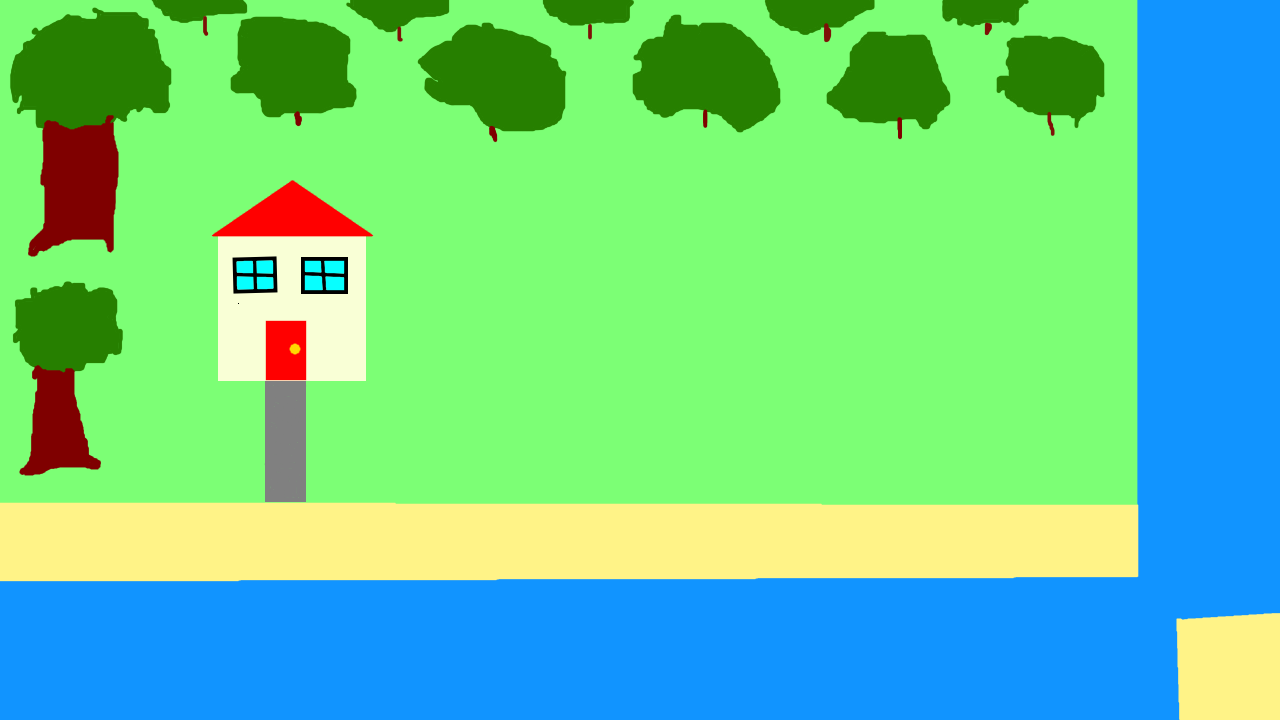
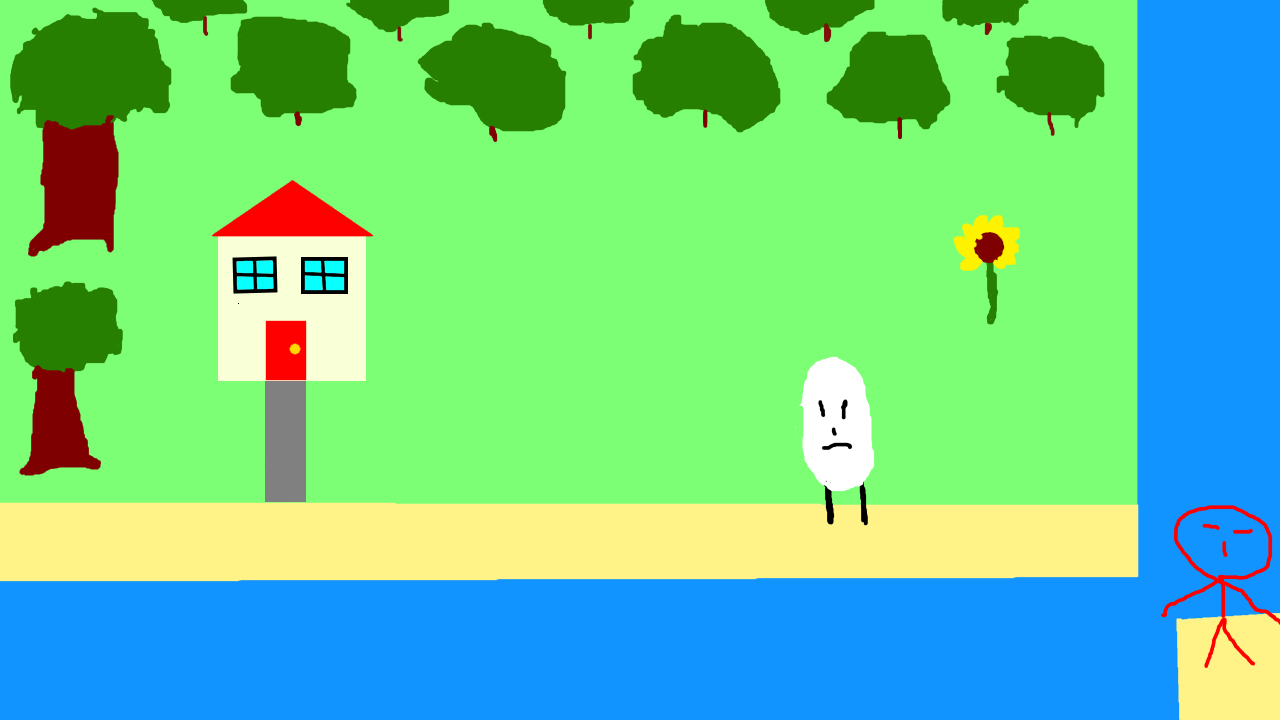
This is the turned in version of the project.

diff --git a/Data Structures Final Gaming/src/Main/Main.java b/Data Structures Final Gaming/src/Main/Main.java
@@ -24,7 +24,7 @@ public class Main{
 	public static Queue<Vector2D> vecs2 = new LinkedList<>();
 	public static Vector2D currentVec = new Vector2D(500, 250);
 	public static ArrayList<spriteInfo> sprites=new ArrayList<>();
-	public static ArrayList<spriteInfo> spritesBorder=new ArrayList<>();
+	//public static ArrayList<spriteInfo> spritesBorder=new ArrayList<>();
 	public static int currentSpriteIndex=0;
 	public static spriteInfo s1 = new spriteInfo(currentVec, "testright0");
 	public static EZFileRead ezr=new EZFileRead("TextLines.txt");
@@ -39,7 +39,6 @@ public class Main{
 	public static int k=currentVec.getY();
 	public static boolean movement=false;
 	public static BoundingBox box1=new BoundingBox(currentVec.getX(),currentVec.getY(),28,28);
-	public static BoundingBox box2=new BoundingBox(175,450,1,35);
 	public static ArrayList<BoundingBox> borders=new ArrayList<>();
 	//public static String key=st.nextToken();
 	//public static String Value=st.nextToken();
@@ -64,16 +63,24 @@ public class Main{
 			phrases[j]=entry.getKey();
 			j++;
 		}
-			spritesBorder.add(new spriteInfo(new Vector2D(0, 0), "Treel"));
+			/*spritesBorder.add(new spriteInfo(new Vector2D(0, 0), "Treel"));
 			spritesBorder.add(new spriteInfo(new Vector2D(1200,0), "Treer"));
 			spritesBorder.add(new spriteInfo(new Vector2D(80,0), "Treeu"));
-			spritesBorder.add(new spriteInfo(new Vector2D(80,640), "Treed"));
-			for(int i=0;i<spritesBorder.size()/2;i++){
+			spritesBorder.add(new spriteInfo(new Vector2D(80,640), "Treed"));*/
+			borders.add(new BoundingBox(0,575,1280,145));
+			borders.add(new BoundingBox(0,0,84,450));
+			borders.add(new BoundingBox(0,0,1280,110));
+			borders.add(new BoundingBox(825,350,20,175));
+			borders.add(new BoundingBox(1000,210,1,80));
+			borders.add(new BoundingBox(1180,0,140,720));
+			borders.add(new BoundingBox(0,500,35,80));
+			borders.add(new BoundingBox(250,180,80,120));
+		/*	for(int i=0;i<spritesBorder.size()/2;i++){
 				borders.add(new BoundingBox(spritesBorder.get(i).getCoords().getX(),spritesBorder.get(i).getCoords().getY(),50,720));
 			}
 			for(int i=2;i<spritesBorder.size();i++){
 				borders.add(new BoundingBox(spritesBorder.get(i).getCoords().getX(),spritesBorder.get(i).getCoords().getY(),1280,50));
-			}
+			}*/
 			
 		sprites.add(s1);
 		//int i=currentVec.getX();
@@ -99,33 +106,22 @@ public class Main{
 		// TODO: This is where you can code! (Starting code below is just to show you how it works)
 		//ctrl.addSpriteToFrontBuffer(currentVec.getX(), currentVec.getY(), "f1");
 		ctrl.addSpriteToFrontBuffer(0, 0, "testbackground");
-		ctrl.addSpriteToFrontBuffer(100, 400, "object1");
-		ctrl.addSpriteToFrontBuffer(spritesBorder.get(0).getCoords().getX(), spritesBorder.get(0).getCoords().getY(), spritesBorder.get(0).getTag());
-		ctrl.addSpriteToFrontBuffer(spritesBorder.get(1).getCoords().getX(), spritesBorder.get(1).getCoords().getY(), spritesBorder.get(1).getTag());
-		ctrl.addSpriteToFrontBuffer(spritesBorder.get(2).getCoords().getX(), spritesBorder.get(2).getCoords().getY(), spritesBorder.get(2).getTag());
-		ctrl.addSpriteToFrontBuffer(spritesBorder.get(3).getCoords().getX(), spritesBorder.get(3).getCoords().getY(), spritesBorder.get(3).getTag());
+		ctrl.addSpriteToFrontBuffer(-10, 475, "BeachBall");
 		ctrl.addSpriteToFrontBuffer(sprites.get(currentSpriteIndex).getCoords().getX(), sprites.get(currentSpriteIndex).getCoords().getY(), sprites.get(currentSpriteIndex).getTag());
-		ctrl.drawString(100, 100, Integer.toString(currentSpriteIndex), custom);
+		//ctrl.drawString(100, 100, Integer.toString(currentSpriteIndex), custom);
 		if(map.containsKey(raw)){
-			ctrl.drawString(450,200 , map.get(raw), custom);
+			ctrl.addSpriteToFrontBuffer(0, 580, "HUDbackground");
+			ctrl.drawString(150,650 , map.get(raw), Color.BLACK);
 		}
-		ctrl.drawString(600, 20, box1.directionOfCollision(box1, borders.get(0)), custom);
-		ctrl.drawString(600, 40, Boolean.toString(movement), custom);
-		ctrl.drawString(700,20, Integer.toString(box1.getx1()),custom);
-		ctrl.drawString(700,40, Integer.toString(box1.getx2()),custom);
-		ctrl.drawString(800,20, Integer.toString(borders.get(0).getx1()),custom);
-		ctrl.drawString(800, 40, Integer.toString(borders.get(0).getx2()), custom);
-		ctrl.drawString(800,20, Integer.toString(borders.get(0).gety1()),custom);
-		ctrl.drawString(800,20, Integer.toString(borders.get(0).gety2()),custom);
 		//ctrl.drawString(200, 200, map.get("string3"), custom);
 		// Test drawing text on screen where you want (Remove later! Test only!)
 		if(timer.isTimeUp()){
 		box1=new BoundingBox(sprites.get(currentSpriteIndex).getCoords().getX(),sprites.get(currentSpriteIndex).getCoords().getY(),128,128);
-		if(box1.isCollision(box1, box2)==true){
+		/*if(box1.isCollision(box1, box2)==true){
 			if(trigger.equalsIgnoreCase(box1.directionOfCollision(box1, box2))){
 				movement=false;
 			}
-		}
+		}*/
 		for(int i=0;i<borders.size();i++){
 		if(box1.isCollision(box1, borders.get(i))==true){
 			if(trigger.equalsIgnoreCase(box1.directionOfCollision(box1, borders.get(i)))){

diff --git a/Data Structures Final Gaming/src/Main/KeyProcessor.java b/Data Structures Final Gaming/src/Main/KeyProcessor.java
@@ -49,8 +49,17 @@ public class KeyProcessor{
 			Main.trigger="u is triggered";
 			break;
 		case '$':
-			if(Main.box1.isCollision(Main.box1, Main.box2)==true){
+			if(Main.box1.isCollision(Main.box1, Main.borders.get(7))==true && Main.box1.directionOfCollision(Main.box1, Main.borders.get(7))=="up"){
 				Main.raw="string3";
+			}
+			if(Main.box1.isCollision(Main.box1, Main.borders.get(3))==true){
+				Main.raw="string1";
+			}
+			if(Main.box1.isCollision(Main.box1, Main.borders.get(4))==true){
+				Main.raw="string2";
+			}
+			if(Main.box1.isCollision(Main.box1, Main.borders.get(6))==true){
+				Main.raw="string4";
 			}
 			break;
 		case 's':

diff --git a/Data Structures Final Gaming/src/Graphics/Graphic.java b/Data Structures Final Gaming/src/Graphics/Graphic.java
@@ -100,7 +100,7 @@ public class Graphic extends JFrame{
 		gd.setFullScreenWindow(this);
 		DisplayMode[] dms = gd.getDisplayModes();
 		boolean isSupported = false;
-		int vindexN3 = isSupported(1280, 720, 32, dms);
+		int vindexN3 = isSupported(2560, 1600, 32, dms);
 		if(vindexN3 != -1){			// 720p supported
 			_dm = dms[vindexN3]; 
 			isSupported = true;
